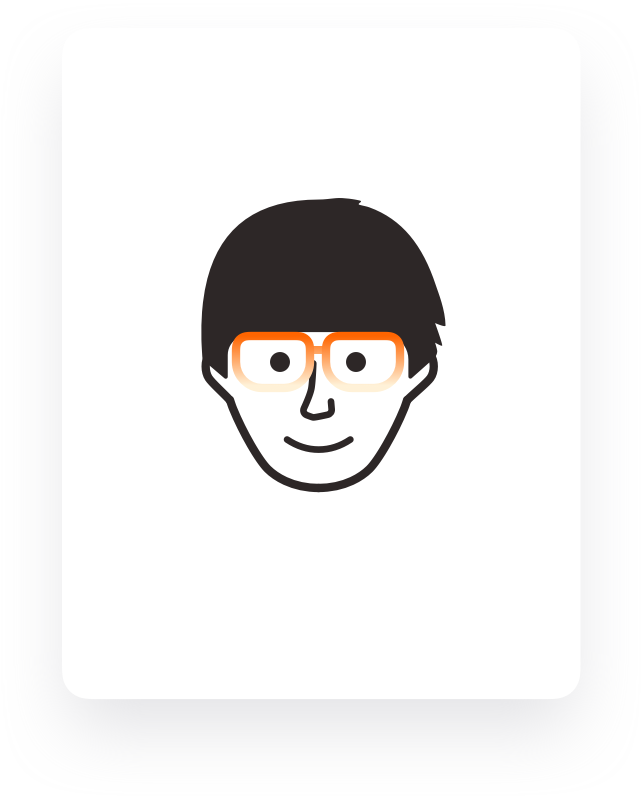
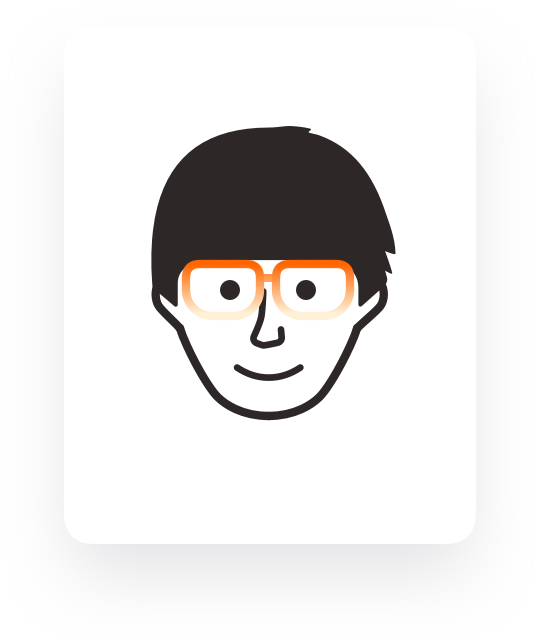
css

Changed region(s): [[0.2667, 0.1863, 0.7407, 0.6522]]

diff --git a/style/main.css b/style/main.css
@@ -14,24 +14,24 @@ body {
 	padding-right: 0px;
 	margin-left:auto;
     margin-right:auto;
-	width: 850px;
+	width: 720px;
 	height: 399px;
 }
 
 #myAvatar{
 	background-image: url(../img/avatar.png);
-	background-size: 322px 399px;
+	background-size: 270px 322px;
 	background-repeat: no-repeat;
-	height: 399px;
-	width: 322px;
+	height: 322px;
+	width: 270px;
 	display: inline-block;
 	float:left;
 }
 .myProfile{
 	margin-left: 30px;
-	margin-top: 60px;
+	margin-top: 36px;
 	display: inline-block;
-	width: 490px;
+	width: 360px;
 	float:left;
 }
 
@@ -44,7 +44,7 @@ body {
 }
 #aboutMe{
 	margin-top: 20px;
-	font-size: 16px;
+	font-size: 15px;
 	color: #4C4C4C;
 	letter-spacing: 0.5px;
 	line-height: 26px;
@@ -84,7 +84,7 @@ body {
 }
 
 .grayLine{
-	height: 0.6px;
+	height: 2px;
     background: #EBEBEB;
 	width: 100%;
 }
@@ -94,11 +94,11 @@ body {
     margin-right:auto;
 	padding-top: 90px;
 	padding-bottom: 90px;
-	width: 600px;
+	width: 660px;
 }
 
 #p1{
-	height: 480px;
+	height: 400px;
 }
 #p2{
 	height: 660px;
@@ -193,10 +193,11 @@ body {
 }
 
 .sBlock{
-	margin-right: 60px;
-	height: 54px;
+	margin: 0px 60px 20px 0px;
+	height: 66px;
+	width: 160px;
 	float: left;
-	display: flex;
+	display: inline-block;
 }
 
 .sName{
@@ -204,14 +205,16 @@ body {
 	font-size: 14px;
 	color: #191919;
 	letter-spacing: 0.4px;
-	text-align: left;
+	text-align: right;
 	line-height: 28px;
+	float: left;
 }
 .sImg{
 	background-size: 30px 30px;
 	background-repeat:no-repeat;
 	height: 30px;
 	width: 30px;
+	float: left;
 }
 #sImgSketch{
 	background-image: url(../img/tools/ske.png);
@@ -238,7 +241,7 @@ body {
 #sImgAbs{
 	background-image: url(../img/tools/abs.png);
 }
-#sImgPs{
-	background-image: url(../img/tools/ps.png);
+#sImgGit{
+	background-image: url(../img/tools/git.png);
 }
 

diff --git a/index.html b/index.html
@@ -47,8 +47,25 @@
 		<div class="sName">ILLUSTRATOR</div>
 		</div>
 		<div class="sBlock">
+		<div class="sImg" id="sImgHtm"></div>
+		<div class="sName">HTML/CSS</div>
+		</div>
+		<div class="sBlock">
+		<div class="sImg" id="sImgPcp"></div>
+		<div class="sName">PRINCIPLE</div>
+		</div>
+		<div class="sBlock">
 		<div class="sImg" id="sImgAe"></div>
 		<div class="sName">AFTEREFFECTS</div>
+		</div>
+		
+		<div class="sBlock">
+		<div class="sImg" id="sImgAbs"></div>
+		<div class="sName">ABSTRACT</div>
+		</div>
+		<div class="sBlock">
+		<div class="sImg" id="sImgGit"></div>
+		<div class="sName">GITHUB</div>
 		</div>
 	</div>
 	<div class="grayLine"></div>
@@ -68,7 +85,7 @@
 			<div class="cBlockText">负责手机与桌面端应用界面设计<br>负责移动端产品文档的编写<br>负责公司市场运营物料设计<br>负责公司品牌视觉识别设计</div>
 		</div>
 		<div class="cBlock">
-			<div class="cBlockDate">2015/12 - 2018/03</div>
+			<div class="cBlockDate">2014/6 - 2014/10</div>
 			<div class="cBlockTitle">黑石科技有限公司</div>
 			<div class="cBlockText">负责车品天猫店首页及商品详情<br>负责车品天猫店市场运营相关设计</div>
 		</div>
